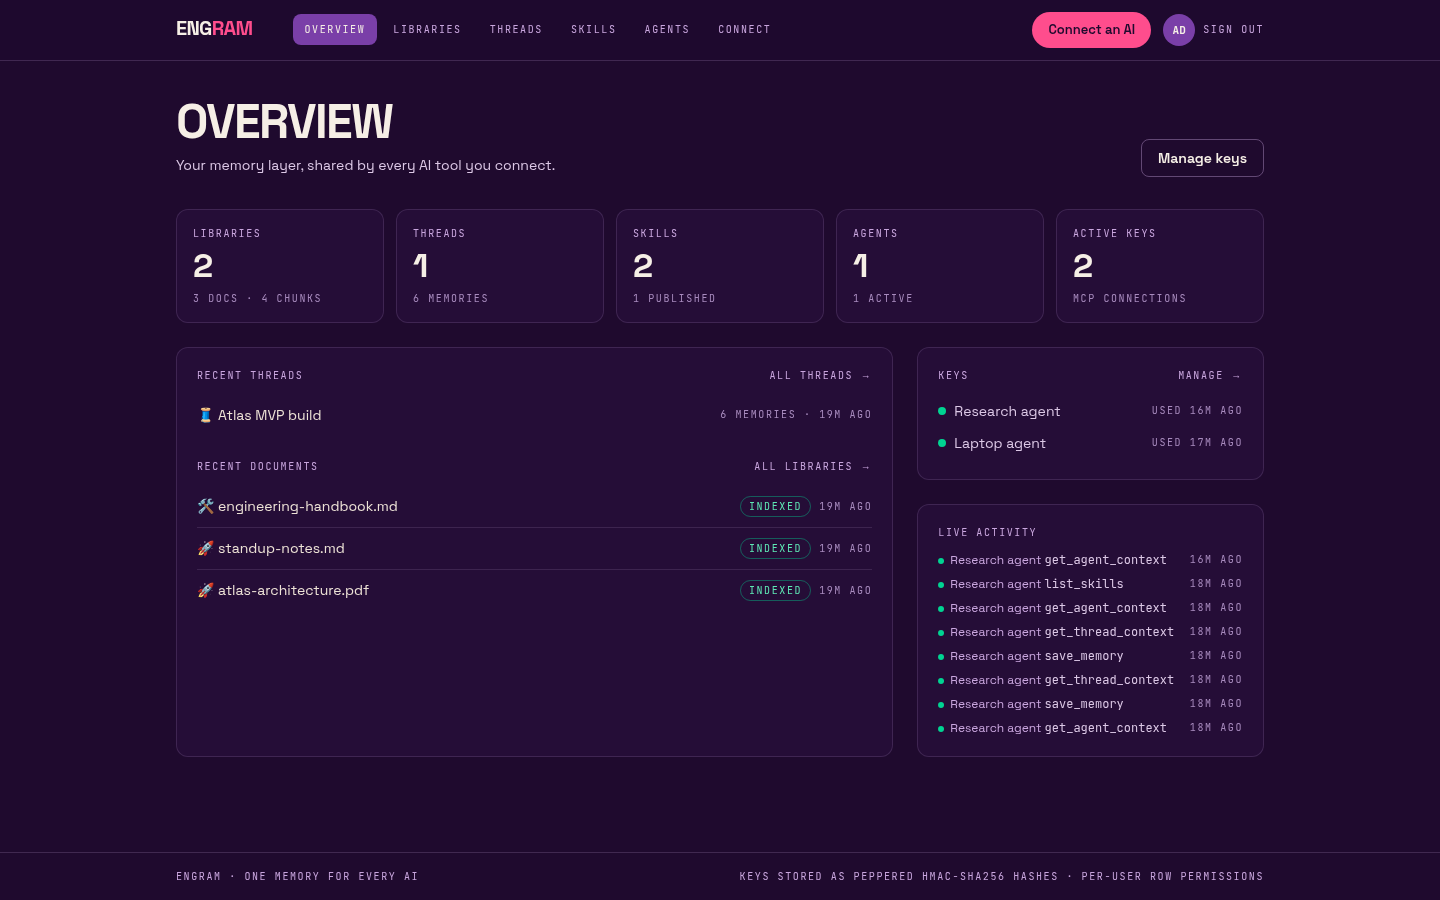
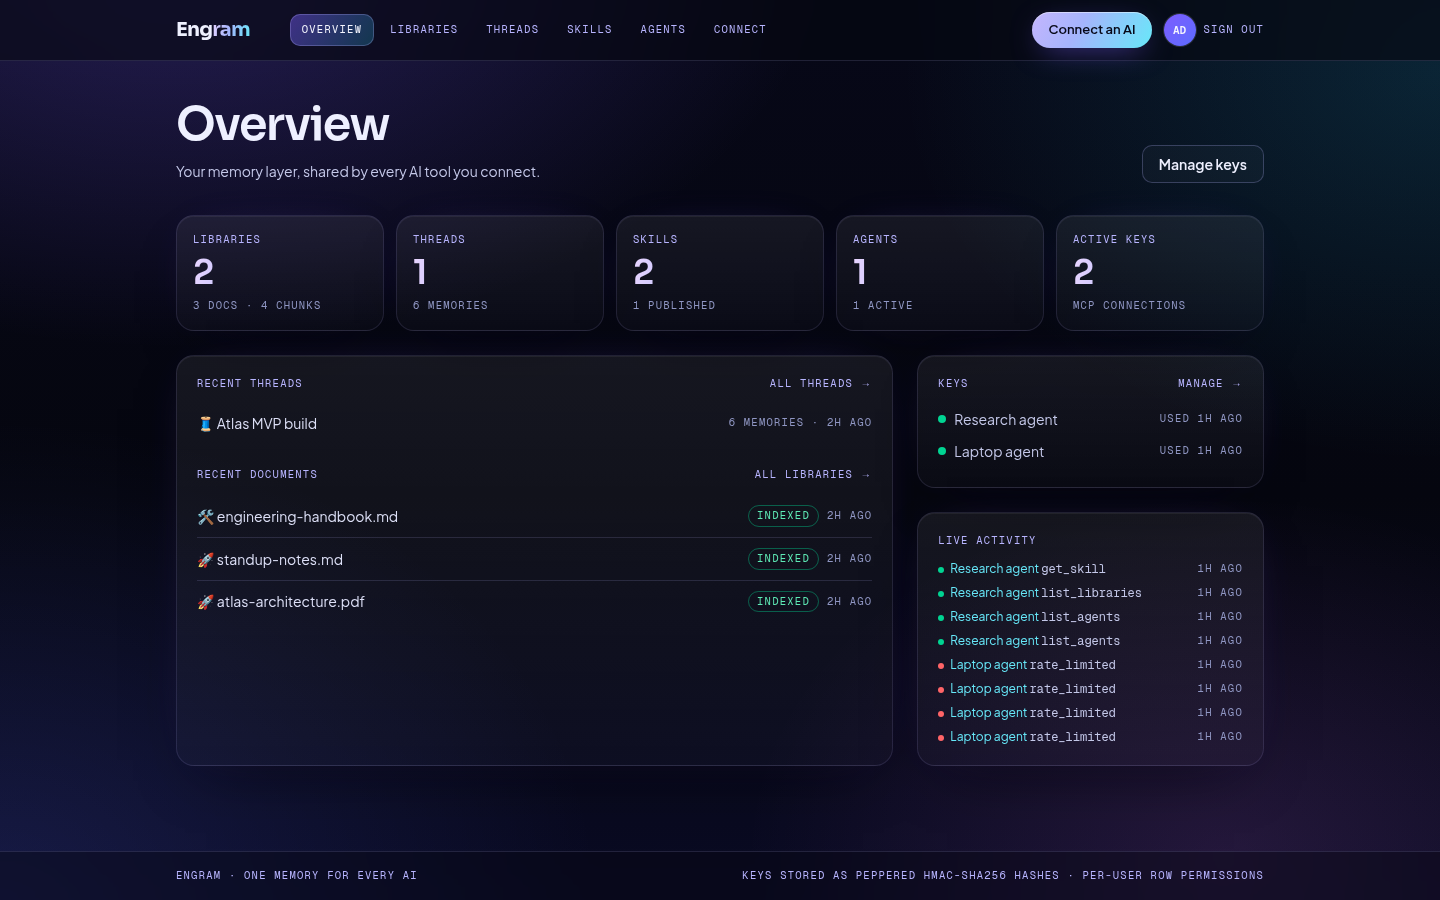
Recapture production screenshots in the dark space glass theme; README visual language

diff --git a/README.md b/README.md
@@ -248,9 +248,14 @@ Project: `6ae5ea70000968dca787` in Frankfurt (`https://fra.cloud.appwrite.io/v1`
 
 Mobile (390 px): [landing](docs/screenshots/10-mobile-landing.png) · [overview](docs/screenshots/09-mobile-overview.png) · [thread](docs/screenshots/08-mobile-thread.png)
 
-**Visual language:** plum `#1F0A2E` ground, cream `#F6EFE6` text, pink `#FF4D8D` actions (dark plum text on pink, 5.9:1),
-violet `#7A3FA8` surfaces, lilac `#C9A6DE` mono labels (8.8:1 on plum), panel `#250D37` bands. Space Grotesk poster headlines and
-JetBrains Mono labels via `next/font`. Single column under 900 px.
+**Visual language: deep space glass.** Near-black navy ground (`#05060F` → `#070818` → `#0A0B24`) with fixed
+radial nebula glows in violet `rgba(124,92,255,.28)`, cyan `rgba(34,211,238,.14)`, magenta `rgba(232,121,249,.12)` and
+indigo `rgba(91,108,255,.16)`, plus a pure-CSS star field (no image assets). Panels are translucent glass: a
+`rgba(255,255,255,.065 → .025)` fill, `backdrop-filter: blur(16px)`, a 1px `rgba(184,181,255,.13)` border and a soft violet glow.
+Primary actions use a lilac → indigo → cyan gradient (`#C4B5FD` → `#A5B4FC` → `#67E8F9`) with dark `#070818` text
+(10:1 or better). Text is `#EEF0FF` (17.5:1 on the ground), mono labels lilac `#B8B5FF` (10.5:1), muted text `#9097C4` (7:1).
+Headlines in Sora, UI text in Plus Jakarta Sans and labels in Geist Mono, all via `next/font`. Every colour is a CSS
+variable or Tailwind theme token in `src/app/globals.css`. Single column under 900 px.
 
 ## Limits and honest notes
 
